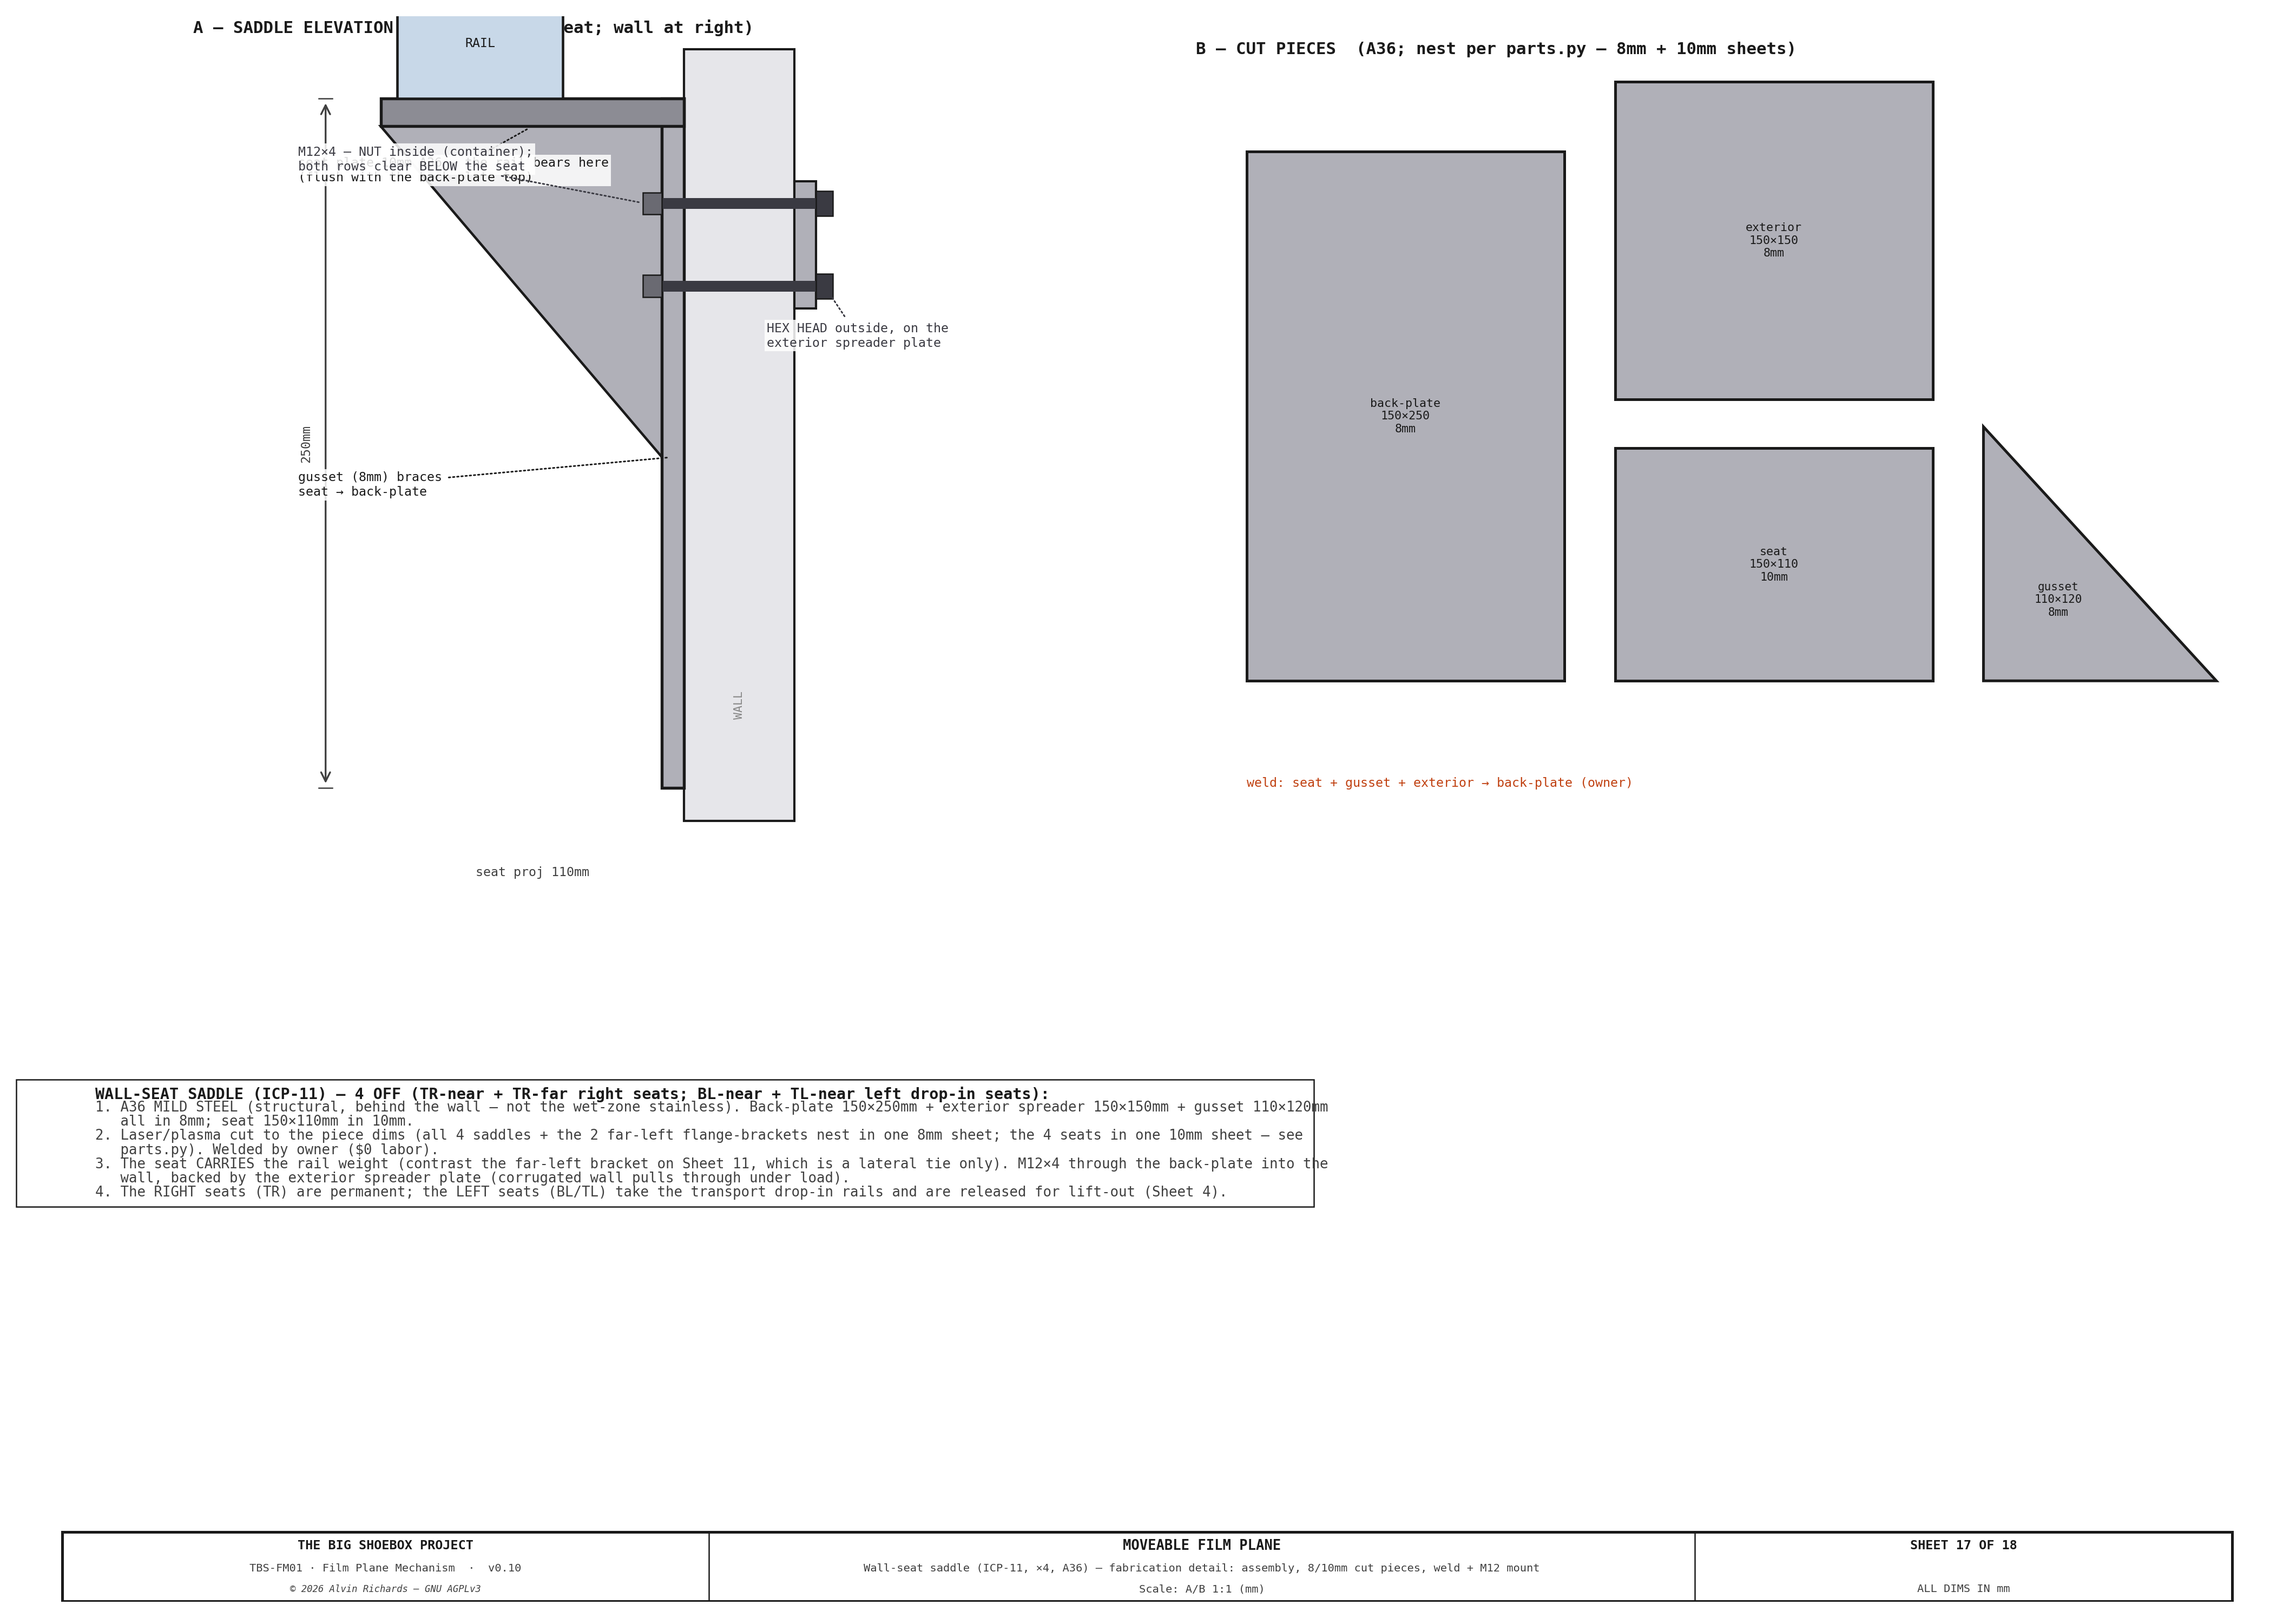
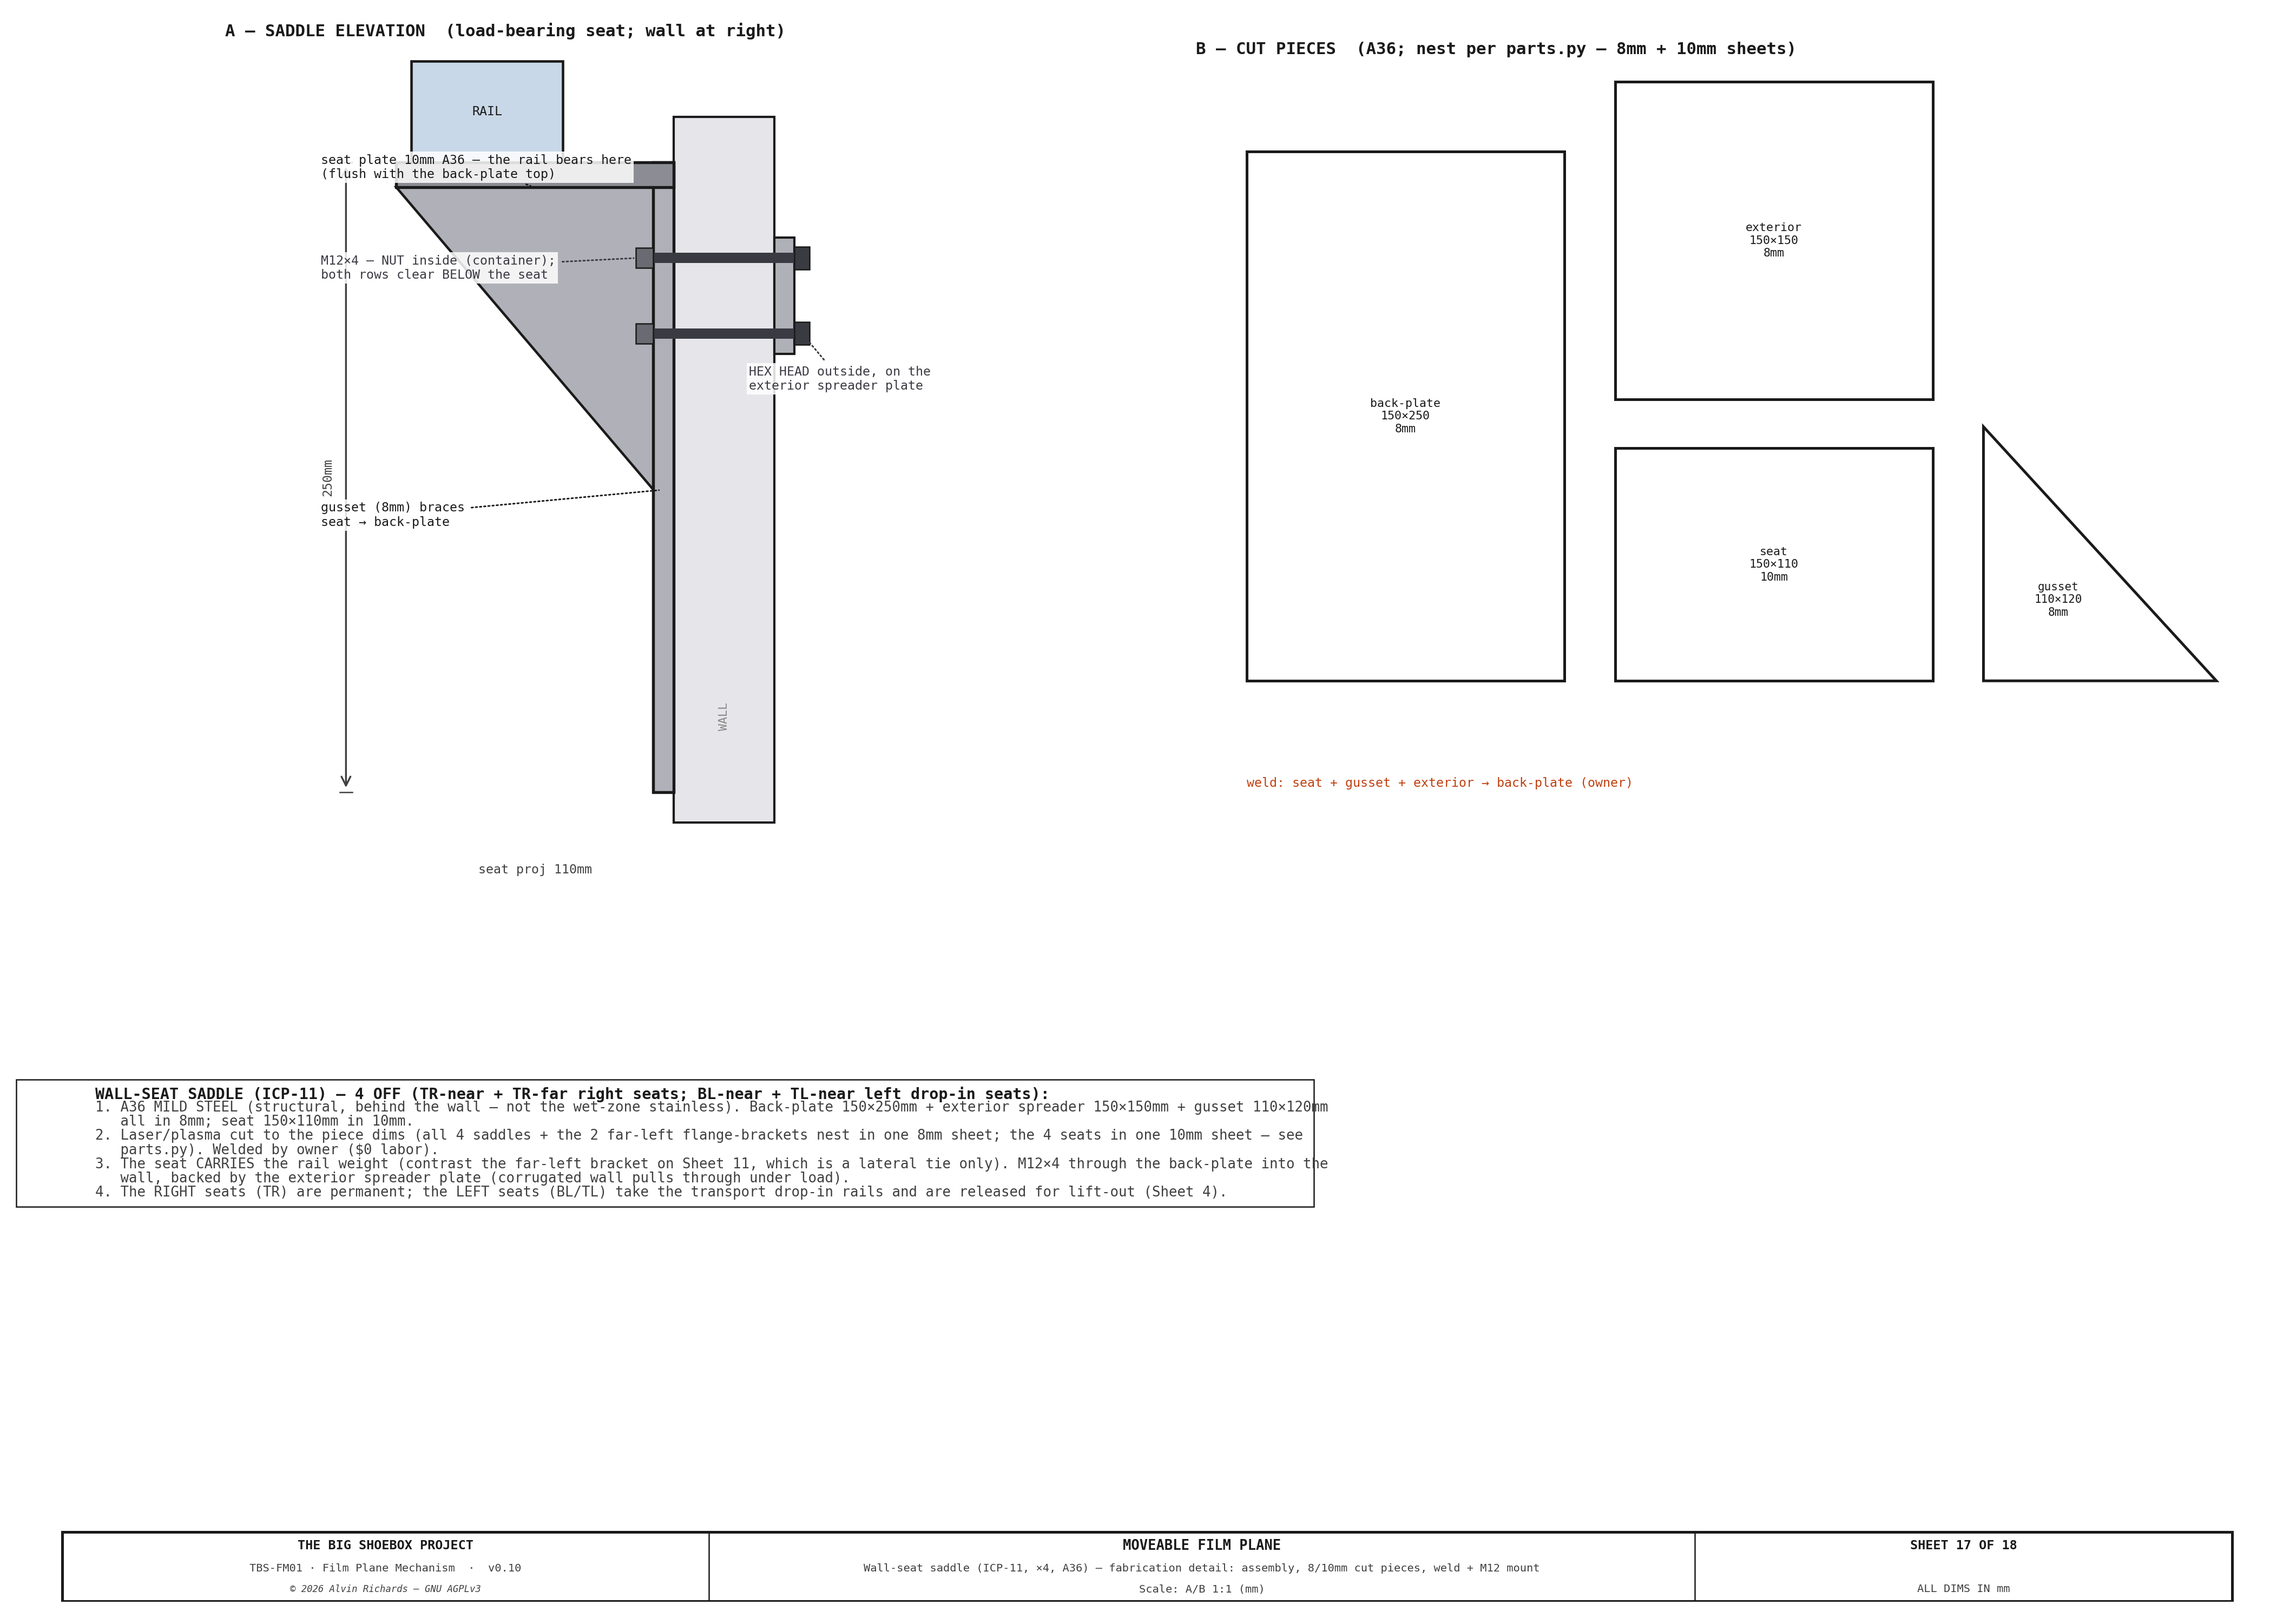
Film-plane: sweep single-part views to monochrome (Sheets 12, 14 A/B, 17 cut pieces)
Apply the color convention to the remaining single-component dimensional views:
Sheet 14 A/B slide bars (was Z-green / X-swing-purple), Sheet 12 View A depth
rail, Sheet 17 View B cut pieces — all → white/line-art. Multi-component views
keep color (Sheet 12/14 View C sections, Sheet 17 View A assembly). Also fixed a
Sheet 17 regression from the seat-flush-top change: raised the view ceiling +
title and separated the seat/M12 leaders (the RAIL block had clipped the title).

diff --git a/src/generators/generate_film_plane_mechanism.py b/src/generators/generate_film_plane_mechanism.py
@@ -2334,7 +2334,7 @@ def sheet17():
 
     # ── View A — saddle side elevation (wall on the right) ─────────────────────
     axA = fig.add_axes([0.06, 0.44, 0.42, 0.46]); axA.set_aspect("equal"); axA.axis("off")
-    axA.set_xlim(-proj - 74, 96); axA.set_ylim(-18, bph + 30)
+    axA.set_xlim(-proj - 74, 96); axA.set_ylim(-18, bph + 58)
     axA.add_patch(Rectangle((0, -12), WALL_T, bph + 30, fc="#E6E6EA", ec=OUT, lw=1.0, zorder=2))     # container wall (light)
     axA.text(WALL_T / 2, 30, "WALL", fontsize=5.2, ha="center", va="center", color="#888", rotation=90, **FONT, zorder=3)
     axA.add_patch(Rectangle((-bt, 0), bt, bph, fc=C_STEEL, ec=OUT, lw=1.3, zorder=4))               # back-plate (8mm)
@@ -2355,21 +2355,21 @@ def sheet17():
         _wall_bolt(bz)
     draw_dim_v(axA, -proj - 20, 0, bph, f"{bph}mm", fs=5.6, font=FONT, offset=8)
     draw_dim_h(axA, -proj, 0, -24, f"seat proj {proj}mm", fs=5.6, font=FONT, above=False, offset=8)
-    leader(axA, -proj / 2, seat_z, -proj - 30, seat_z - 16, f"seat plate {st}mm A36 — the rail bears here\n(flush with the back-plate top)", ha="left", fs=5.6, color=OUT, font=FONT, bbox=LBL_BG)
+    leader(axA, -proj / 2, seat_z, -proj - 30, seat_z + 8, f"seat plate {st}mm A36 — the rail bears here\n(flush with the back-plate top)", ha="left", fs=5.6, color=OUT, font=FONT, bbox=LBL_BG)
     leader(axA, -bt / 2, gh, -proj - 30, gh - 10, f"gusset (8mm) braces\nseat → back-plate", ha="left", fs=5.6, color=OUT, font=FONT, bbox=LBL_BG)
-    leader(axA, -bt - 6, bz_hi, -proj - 30, bz_hi + 16, f"M{FP_CORNER_SEAT_BOLT_D}×{FP_CORNER_SEAT_BOLT_N} — NUT inside (container);\nboth rows clear BELOW the seat", ha="left", fs=5.6, color=C_BOLT, font=FONT, bbox=LBL_BG)
+    leader(axA, -bt - 6, bz_hi, -proj - 30, bz_hi - 4, f"M{FP_CORNER_SEAT_BOLT_D}×{FP_CORNER_SEAT_BOLT_N} — NUT inside (container);\nboth rows clear BELOW the seat", ha="left", fs=5.6, color=C_BOLT, font=FONT, bbox=LBL_BG)
     leader(axA, WALL_T + 11, bz_lo, 30, bz_lo - 18, "HEX HEAD outside, on the\nexterior spreader plate", ha="left", fs=5.6, color=C_BOLT, font=FONT, bbox=LBL_BG)
-    axA.text(-proj - 68, bph + 24, "A — SADDLE ELEVATION  (load-bearing seat; wall at right)", fontsize=7.4, fontweight="bold", color=OUT, ha="left", **FONT)
+    axA.text(-proj - 68, bph + 50, "A — SADDLE ELEVATION  (load-bearing seat; wall at right)", fontsize=7.4, fontweight="bold", color=OUT, ha="left", **FONT)
 
     # ── View B — flat-pattern cut pieces (nesting) ─────────────────────────────
     axB = fig.add_axes([0.53, 0.42, 0.44, 0.50]); axB.set_aspect("equal"); axB.axis("off")
     axB.set_xlim(-24, 482); axB.set_ylim(-40, bph + 70)
     def _piece(x, y, w, h, lbl, tri=False):
         if tri:
-            axB.add_patch(plt.Polygon([(x, y), (x, y + h), (x + w, y)], closed=True, fc=C_STEEL, ec=OUT, lw=1.2, zorder=3))
+            axB.add_patch(plt.Polygon([(x, y), (x, y + h), (x + w, y)], closed=True, fc="white", ec=OUT, lw=1.2, zorder=3))
             axB.text(x + w * 0.32, y + h * 0.32, lbl, fontsize=5.0, ha="center", va="center", color=OUT, **FONT, zorder=5)
         else:
-            axB.add_patch(Rectangle((x, y), w, h, fc=C_STEEL, ec=OUT, lw=1.2, zorder=3))
+            axB.add_patch(Rectangle((x, y), w, h, fc="white", ec=OUT, lw=1.2, zorder=3))
             axB.text(x + w / 2, y + h / 2, lbl, fontsize=5.2, ha="center", va="center", color=OUT, **FONT, zorder=5)
     _piece(0, 20, pw, bph, f"back-plate\n{pw:.0f}×{bph}\n8mm")                       # x 0-150,   y 20-263
     _piece(pw + 24, 153, pw, pw, f"exterior\n{pw:.0f}×{pw:.0f}\n8mm")               # x 174-324, y 153-303
@@ -2589,9 +2589,9 @@ def sheet14():
         ax.text(0, bw + 22, title, fontsize=7.2, fontweight="bold", color=OUT, ha="left", **FONT)
 
     axA = fig.add_axes([0.06, 0.74, 0.60, 0.17])
-    _bar(axA, XSLIDE_Z_BAR_LEN, C_TILT, f"A — Z (TILT) SLIDE BAR  ·  304 flat ¼×1½in, {XSLIDE_Z_BAR_LEN}mm ×4")
+    _bar(axA, XSLIDE_Z_BAR_LEN, "white", f"A — Z (TILT) SLIDE BAR  ·  304 flat ¼×1½in, {XSLIDE_Z_BAR_LEN}mm ×4")   # single-part → monochrome
     axB = fig.add_axes([0.06, 0.545, 0.60, 0.17])
-    _bar(axB, XSLIDE_X_BAR_LEN, C_SWING, f"B — X (SWING) SLIDE BAR  ·  304 flat ¼×1½in, {XSLIDE_X_BAR_LEN}mm ×4")
+    _bar(axB, XSLIDE_X_BAR_LEN, "white", f"B — X (SWING) SLIDE BAR  ·  304 flat ¼×1½in, {XSLIDE_X_BAR_LEN}mm ×4")   # single-part → monochrome
 
     # ── View C — DEEP-MOUNT section (the load-case decision) ───────────────────
     axC = fig.add_axes([0.06, 0.10, 0.42, 0.34]); axC.set_aspect("equal"); axC.axis("off")
@@ -2757,14 +2757,14 @@ def sheet12():
     # ── View A — side elevation (looking at the web); length compressed ─────────
     axA = fig.add_axes([0.06, 0.70, 0.88, 0.20]); axA.axis("off")
     axA.set_xlim(-190, RAIL_CUT + 190); axA.set_ylim(-64, D + 76)
-    axA.add_patch(Rectangle((0, 0), RAIL_CUT, D, fc=STRUCT2, ec=OUT, lw=1.3, zorder=3))
-    axA.add_patch(Rectangle((0, D - t), RAIL_CUT, t, fc="#9DB4CC", ec=OUT, lw=0.7, zorder=4))   # top flange edge
-    axA.add_patch(Rectangle((0, 0), RAIL_CUT, t, fc="#9DB4CC", ec=OUT, lw=0.7, zorder=4))       # bottom flange edge
+    axA.add_patch(Rectangle((0, 0), RAIL_CUT, D, fc="white", ec=OUT, lw=1.3, zorder=3))          # single-part → monochrome
+    axA.add_patch(Rectangle((0, D - t), RAIL_CUT, t, fc="white", ec=OUT, lw=0.7, zorder=4))      # top flange edge
+    axA.add_patch(Rectangle((0, 0), RAIL_CUT, t, fc="white", ec=OUT, lw=0.7, zorder=4))          # bottom flange edge
     trav0 = (RAIL_CUT - RAIL_LEN) / 2
-    axA.add_patch(Rectangle((trav0, t + 3), RAIL_LEN, D - 2 * t - 6, fc="none", ec=C_FLAT,
+    axA.add_patch(Rectangle((trav0, t + 3), RAIL_LEN, D - 2 * t - 6, fc="none", ec=DIM,
                             lw=1.0, ls=(0, (5, 3)), zorder=5))
     axA.text(RAIL_CUT / 2, D / 2, "acetal skate travel zone", fontsize=6.4, ha="center",
-             va="center", color=C_FLAT, **FONT, zorder=6)
+             va="center", color=DIM, **FONT, zorder=6)
     draw_dim_h(axA, 0, RAIL_CUT, -32, f"CUT {RAIL_CUT}mm  (wall-to-wall, Yd0 → C_WID)",
                fs=6.2, font=FONT, above=False, offset=14)
     draw_dim_h(axA, trav0, trav0 + RAIL_LEN, D + 30, f"skate travel {RAIL_LEN}mm", fs=6.0, font=FONT, offset=12)
